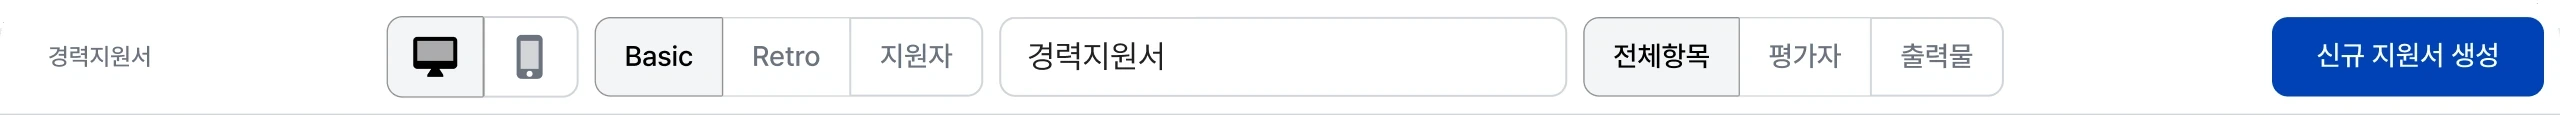
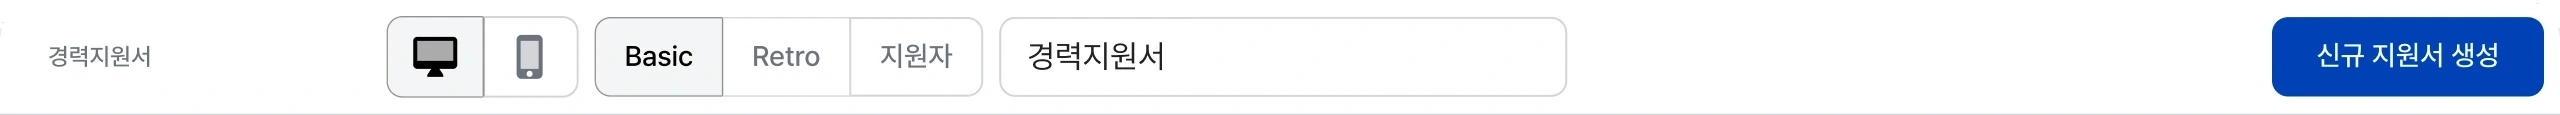
전형 운영 자동 교차·속도 조정, 문구 및 버튼 정리
- 일반/간편 전형: 누르기 전 4초 간격 자동 교차, 0.7초 부드러운 전환,
  교차 중 뒤 카드 비침 제거, 화면 속 파란색을 #0042b7 로 통일, 버튼 높이 통일
- '마이페이지 안내' → '마이페이지 발송', 탭 설명 줄간격 1.6
- 지원서 설정 문구 '100개 이상의~' (오타 수정 포함)
- 지원서 빌더 툴바에서 전체항목/평가자/출력물 탭 제거

Changed region(s): [[0.625, 0.3652, 0.7812, 0.6], [0.625, 0.8087, 0.7812, 0.8609], [0.625, 0.1304, 0.7812, 0.1826]]

diff --git a/src/components/sections/Hero3ScreeningToggle.tsx b/src/components/sections/Hero3ScreeningToggle.tsx
@@ -1,5 +1,5 @@
-import { useState } from 'react'
-import { AnimatePresence, motion } from 'framer-motion'
+import { useEffect, useRef, useState } from 'react'
+import { AnimatePresence, motion, useInView, useReducedMotion } from 'framer-motion'
 import { useFitScale } from '../../hooks/useFitScale'
 import { SCREEN_HEIGHT, SCREEN_WIDTH, SimpleScreen, StandardScreen } from './Hero3ScreeningScreens'
 
@@ -70,6 +70,18 @@ const SHOT_HEIGHT = Math.round(SCREEN_HEIGHT * SHOT_SCALE)
  *  (PillSwitch 를 못 쓰는 이유) 폭을 못박고 미끄러질 거리를 직접 센다. */
 const PILL_CELL_WIDTH = 72
 
+/** 두 장이 자리를 바꾸는 움직임. 천천히 출발해 천천히 멈추게 해 급하게
+ *  튀지 않게 한다. 장·스위치 알약·설명 문장이 같은 박자로 움직인다. */
+const SWAP = { duration: 0.7, ease: [0.45, 0, 0.2, 1] as const }
+
+/** 카드는 자리 이동은 SWAP 박자로 하되, 투명도는 먼저 끝낸다. 앞뒤 순서(z)는
+ *  바뀌는 즉시 넘어가는데 투명도가 느리면, 반투명한 채 앞으로 온 카드 너머로
+ *  뒤로 가는 카드가 이동 내내 비쳐 보인다. */
+const CARD_SWAP = { ...SWAP, opacity: { duration: 0.2, ease: 'easeOut' as const } }
+
+/** 저절로 바뀌는 간격. */
+const AUTOPLAY_MS = 4000
+
 type ScreeningId = (typeof SCREENINGS)[number]['id']
 
 /**
@@ -80,13 +92,28 @@ type ScreeningId = (typeof SCREENINGS)[number]['id']
 export function Hero3ScreeningToggle() {
   const { ref, scale } = useFitScale(DESIGN_WIDTH)
   const [selected, setSelected] = useState<ScreeningId>('standard')
+  // 누르기 전까지는 4초마다 일반 ↔ 간편을 저절로 바꿔 둘 다 보여 준다.
+  // 한 번 누르면 멈춘다 — 고른 화면을 타이머가 빼앗으면 고장으로 읽힌다.
+  const [takenOver, setTakenOver] = useState(false)
+  const blockRef = useRef<HTMLDivElement>(null)
+  const inView = useInView(blockRef, { amount: 0.4 })
+  const reduceMotion = useReducedMotion()
+  useEffect(() => {
+    if (takenOver || !inView || reduceMotion) return
+    const timer = setTimeout(() => setSelected((id) => (id === 'standard' ? 'simple' : 'standard')), AUTOPLAY_MS)
+    return () => clearTimeout(timer)
+  }, [selected, takenOver, inView, reduceMotion])
+  const pick = (id: ScreeningId) => {
+    setTakenOver(true)
+    setSelected(id)
+  }
   const current = SCREENINGS.find((item) => item.id === selected) ?? SCREENINGS[0]
 
   return (
     /* 받치던 흰 카드를 뺐다 — 두 장이 서로 앞뒤로 교차하는 게 이 블록이
        보여 줄 전부라, 그걸 담는 상자는 그림을 가두기만 했다. 구역 바탕 위에
        그림자만으로 떠 있는 편이 교차가 더 잘 보인다. */
-    <div className="w-full">
+    <div ref={blockRef} className="w-full">
       <div ref={ref} className="w-full overflow-hidden" style={{ height: DESIGN_HEIGHT * scale }}>
         {/* 가운데 맞춤. useFitScale 은 배율을 1 로 묶어 두므로, 무대(1142)가
             담는 칸(1208)보다 좁은 넓은 화면에서는 왼쪽에 붙어 33px 쯤 왼쪽으로
@@ -115,9 +142,9 @@ export function Hero3ScreeningToggle() {
                 key={screening.id}
                 role="img"
                 aria-label={screening.alt}
-                onClick={isSelected ? undefined : () => setSelected(screening.id)}
+                onClick={isSelected ? undefined : () => pick(screening.id)}
                 animate={slot}
-                transition={{ duration: 0.45, ease: [0.16, 1, 0.3, 1] }}
+                transition={CARD_SWAP}
                 style={{ position: 'absolute', width: SHOT_WIDTH, height: SHOT_HEIGHT }}
                 className={`overflow-hidden rounded-card border border-[#eceef2] shadow-[0px_4px_24px_0px_rgba(32,40,45,0.12)] ${isSelected ? '' : 'cursor-pointer'}`}
               >
@@ -157,7 +184,7 @@ export function Hero3ScreeningToggle() {
                 aria-hidden
                 initial={false}
                 animate={{ x: SCREENINGS.findIndex((item) => item.id === selected) * PILL_CELL_WIDTH }}
-                transition={{ type: 'spring', stiffness: 420, damping: 34 }}
+                transition={SWAP}
                 className="absolute left-[3px] top-[3px] h-[calc(100%-6px)] rounded-full bg-brand-100"
                 style={{ width: PILL_CELL_WIDTH }}
               />
@@ -167,7 +194,7 @@ export function Hero3ScreeningToggle() {
                   <button
                     key={screening.id}
                     type="button"
-                    onClick={() => setSelected(screening.id)}
+                    onClick={() => pick(screening.id)}
                     aria-pressed={isSelected}
                     style={{ width: PILL_CELL_WIDTH }}
                     className={`relative z-10 cursor-pointer whitespace-nowrap rounded-full py-[3px] text-[14px] font-semibold tracking-[-0.07px] transition-colors duration-200 ${
@@ -208,7 +235,7 @@ export function Hero3ScreeningToggle() {
                     initial={{ y: '110%' }}
                     animate={{ y: '0%' }}
                     exit={{ y: '-110%' }}
-                    transition={{ duration: 0.4, ease: [0.16, 1, 0.3, 1] }}
+                    transition={SWAP}
                     className="absolute inset-x-0 top-0 text-left text-[20px] font-medium leading-[1.5] tracking-[-0.1px] text-body"
                   >
                     {current.note}
@@ -232,7 +259,7 @@ export function Hero3ScreeningToggle() {
             <button
               key={screening.id}
               type="button"
-              onClick={() => setSelected(screening.id)}
+              onClick={() => pick(screening.id)}
               aria-label={`${screening.label} 보기`}
               aria-current={isSelected}
               className={`h-2 cursor-pointer rounded-full transition-all duration-300 ${

diff --git a/src/components/sections/Hero3ScreeningScreens.tsx b/src/components/sections/Hero3ScreeningScreens.tsx
@@ -104,7 +104,7 @@ function TopBar({ title, action }: { title: string; action: string }) {
         MY
       </span>
       <span className={GHOST}>채용종료</span>
-      <span className="flex h-[44px] items-center gap-2 rounded-[10px] bg-[#1d4ed8] px-4 text-[18px] font-semibold text-white">
+      <span className="flex h-[44px] items-center gap-2 rounded-[10px] bg-[#0042b7] px-4 text-[18px] font-semibold text-white">
         <P.plus size={20} stroke={STROKE} />
         {action}
       </span>
@@ -131,7 +131,7 @@ function HeadActions({ autoEval }: { autoEval?: boolean }) {
     <>
       {autoEval && (
         <span className="flex h-[44px] items-center gap-2 rounded-full bg-[#f1f3f5] px-4 text-[18px] font-semibold text-ink">
-          <Dot color="#1d4ed8" />
+          <Dot color="#0042b7" />
           자동평가 ON
           <P.chevron size={18} stroke={STROKE} />
         </span>
@@ -320,7 +320,7 @@ export function StandardScreen({ active = true }: { active?: boolean }) {
         {/* 끌어 옮기는 손잡이는 뺐다 — 위 "서류전형" 줄에는 없어서, 이 줄만
             손잡이 폭만큼 안쪽으로 밀려 제목 왼쪽이 어긋나 보였다. */}
         <div className="flex items-center gap-3">
-          <span className="flex size-[36px] items-center justify-center rounded-[9px] bg-[#e8f0fe] text-[18px] font-bold text-[#1d4ed8]">
+          <span className="flex size-[36px] items-center justify-center rounded-[9px] bg-[#e8f0fe] text-[18px] font-bold text-[#0042b7]">
             n
           </span>
           <p className="text-[24px] font-bold tracking-[-0.12px] text-ink">커리어앤</p>
@@ -377,8 +377,8 @@ function EmptyAction({ note, label, primary }: { note?: string; label: string; p
       <span
         className={
           primary
-            ? 'flex items-center gap-2 rounded-[10px] bg-[#1d4ed8] px-5 py-3 text-[19px] font-semibold text-white'
-            : 'rounded-[10px] bg-[#eceef2] px-5 py-3 text-[19px] font-medium text-[#b8bdc6]'
+            ? 'flex h-[44px] items-center gap-2 rounded-[10px] bg-[#0042b7] px-5 text-[19px] font-semibold text-white'
+            : 'flex h-[44px] items-center rounded-[10px] bg-[#eceef2] px-5 text-[19px] font-medium text-[#b8bdc6]'
         }
       >
         {label}
@@ -622,7 +622,7 @@ export function SimpleScreen({ active = true }: { active?: boolean }) {
       <TopBar title="2025 커리어링크 신입사원 수시채용" action="채용단계 추가" />
 
       <div className="flex items-center gap-8 border-b border-[#eceef2] text-[19px]">
-        <span className="border-b-[3px] border-[#1d4ed8] pb-3 font-semibold text-[#1d4ed8]">채용단계 보기</span>
+        <span className="border-b-[3px] border-[#0042b7] pb-3 font-semibold text-[#0042b7]">채용단계 보기</span>
         <span className="pb-3 text-[#9aa3af]">전형 보기</span>
       </div>
 
@@ -636,11 +636,11 @@ export function SimpleScreen({ active = true }: { active?: boolean }) {
               <P.cards size={22} stroke={STROKE} />
             </span>
           </span>
-          <span className="flex h-[48px] items-center gap-2 rounded-[10px] bg-[#1d4ed8] px-5 text-[19px] font-semibold text-white">
+          <span className="flex h-[48px] items-center gap-2 rounded-[10px] bg-[#0042b7] px-5 text-[19px] font-semibold text-white">
             <P.plus size={20} stroke={STROKE} />
             전형 등록
           </span>
-          <span className="flex h-[48px] items-center gap-2 rounded-[10px] border border-[#bcd3fa] bg-white px-5 text-[19px] font-semibold text-[#1d4ed8]">
+          <span className="flex h-[48px] items-center gap-2 rounded-[10px] border border-[#bcd3fa] bg-white px-5 text-[19px] font-semibold text-[#0042b7]">
             지원자 추가
             <P.chevron size={18} stroke={STROKE} />
           </span>
@@ -658,7 +658,7 @@ export function SimpleScreen({ active = true }: { active?: boolean }) {
             >
               <Glyph size={22} stroke={STROKE} />
               {i === 2 && (
-                <span className="absolute -right-2 -top-2 flex size-[26px] items-center justify-center rounded-full bg-[#1d4ed8] text-[15px] font-bold text-white">
+                <span className="absolute -right-2 -top-2 flex size-[26px] items-center justify-center rounded-full bg-[#0042b7] text-[15px] font-bold text-white">
                   9
                 </span>
               )}

diff --git a/src/components/sections/Hero3Dashboard.tsx b/src/components/sections/Hero3Dashboard.tsx
@@ -27,7 +27,7 @@ const TABS: { id: TabId; label: string; icon: ReactNode }[] = [
   },
   {
     id: 'mypage',
-    label: '마이페이지 안내',
+    label: '마이페이지 발송',
     // 지원자 한 사람 앞으로 가는 안내 — 이름표.
     icon: (
       <>
@@ -148,7 +148,7 @@ export function Hero3Dashboard() {
         {/* 설명문은 목업 아래에 둔다 — 탭을 누르면 바뀌는 건 그림이고, 글은
             그 그림이 무엇인지 뒤에서 확인해 주는 말이다. 위에 두면 그림이
             나오기 전에 설명부터 읽히는데, 이 블록은 보고 나서 읽는 쪽이다. */}
-        <p className="w-full max-w-[1100px] whitespace-pre-line px-8 pt-[30px] text-center type-lead">
+        <p className="w-full max-w-[1100px] whitespace-pre-line px-8 pt-[30px] text-center type-lead" style={{ lineHeight: 1.6 }}>
           {TAB_DESCRIPTIONS[activeTab]}
         </p>
       </motion.div>

diff --git a/src/components/sections/Hero2ApplicationTitle.tsx b/src/components/sections/Hero2ApplicationTitle.tsx
@@ -23,7 +23,7 @@ export function Hero2ApplicationTitle() {
           <SectionEyebrow>서류 접수</SectionEyebrow>
           <p className="type-title">자유로운 지원서 설정</p>
           <p className="max-w-[1208px] type-lead">
-            144개의 다양한 지원서 항목을 직접 추가해보변서 지원서 양식을 구성해보세요.
+            100개 이상의 다양한 지원서 항목을 직접 추가해보면서 지원서 양식을 구성해보세요.
           </p>
         </motion.div>
       </Container>
